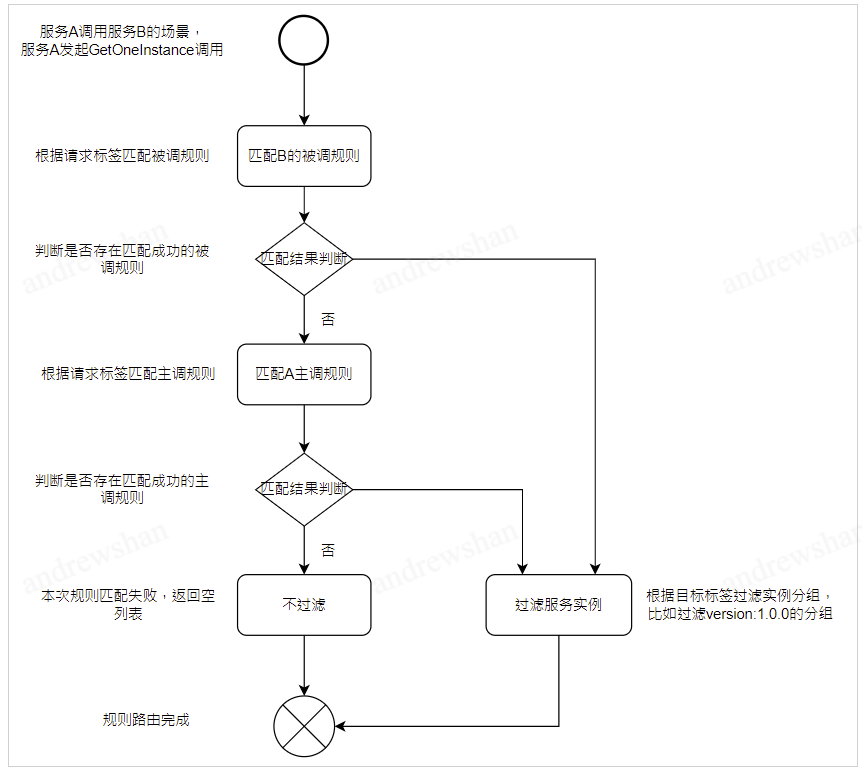
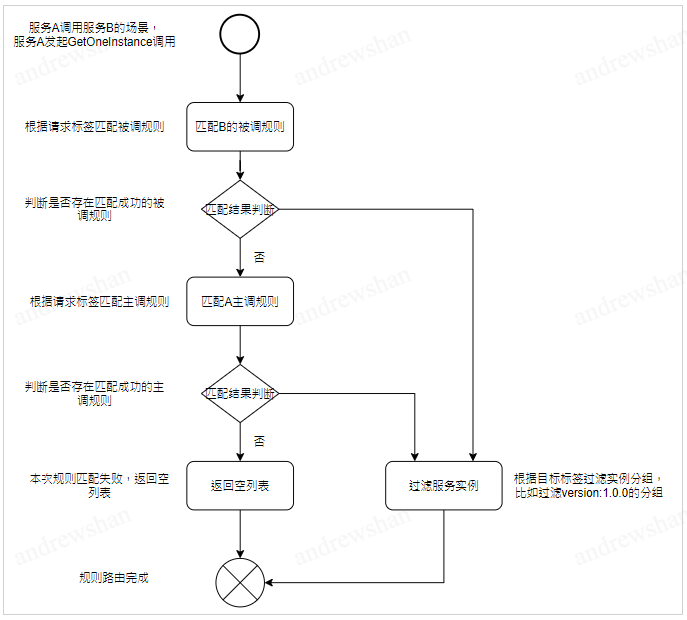
feat：优化规则路由

diff --git a/docs/zh/doc/使用指南/动态路由/规则路由.md b/docs/zh/doc/使用指南/动态路由/规则路由.md
@@ -46,7 +46,7 @@
 
 #### 边界条件
 
-- 通过请求标签进行匹配，没有匹配到一个路由规则，则本次请求过程直接跳过规则路由。
+- 通过请求标签进行匹配，没有匹配到一个路由规则，则本次请求路由失败，返回空实例列表。
 - 通过请求标签进行匹配，匹配到了路由规则，但是路由规则所对应的destination不存在服务实例，则本次请求获取到的服务实例为空。
 - 通过请求标签进行匹配，匹配到了路由规则，路由规则对应的2个同优先级的destination，请求会在这2个destination中按照权重比例随机路由，假如其中一个destination不存在服务实例，则路由到该destination的请求获取到的服务实例为空。
 
